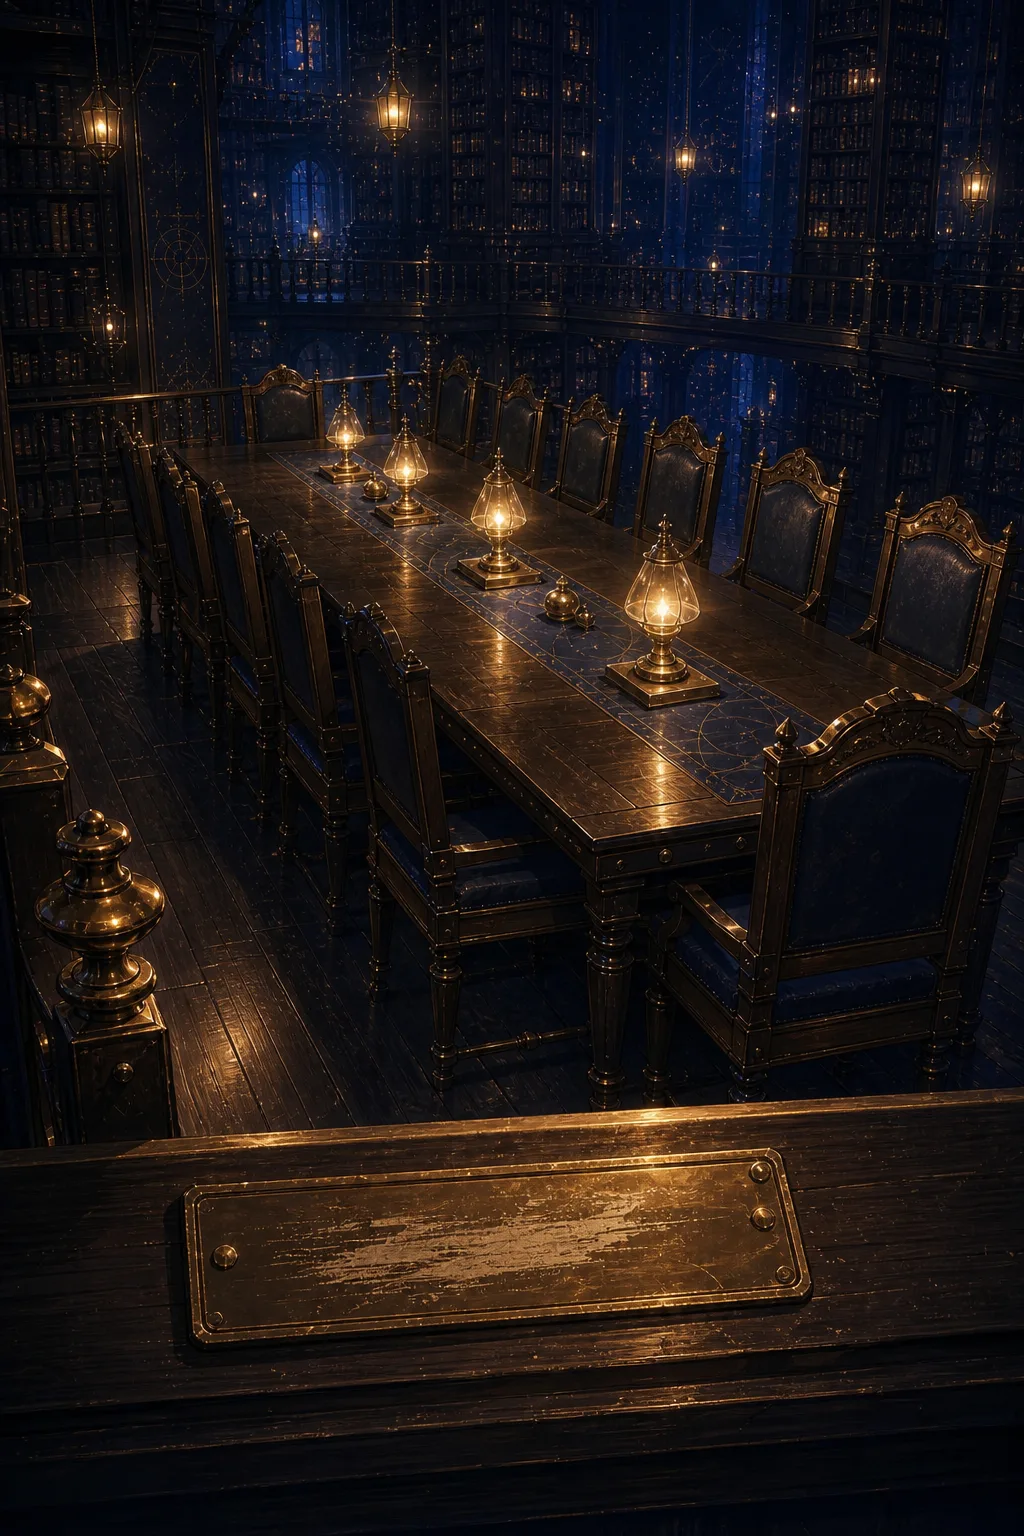
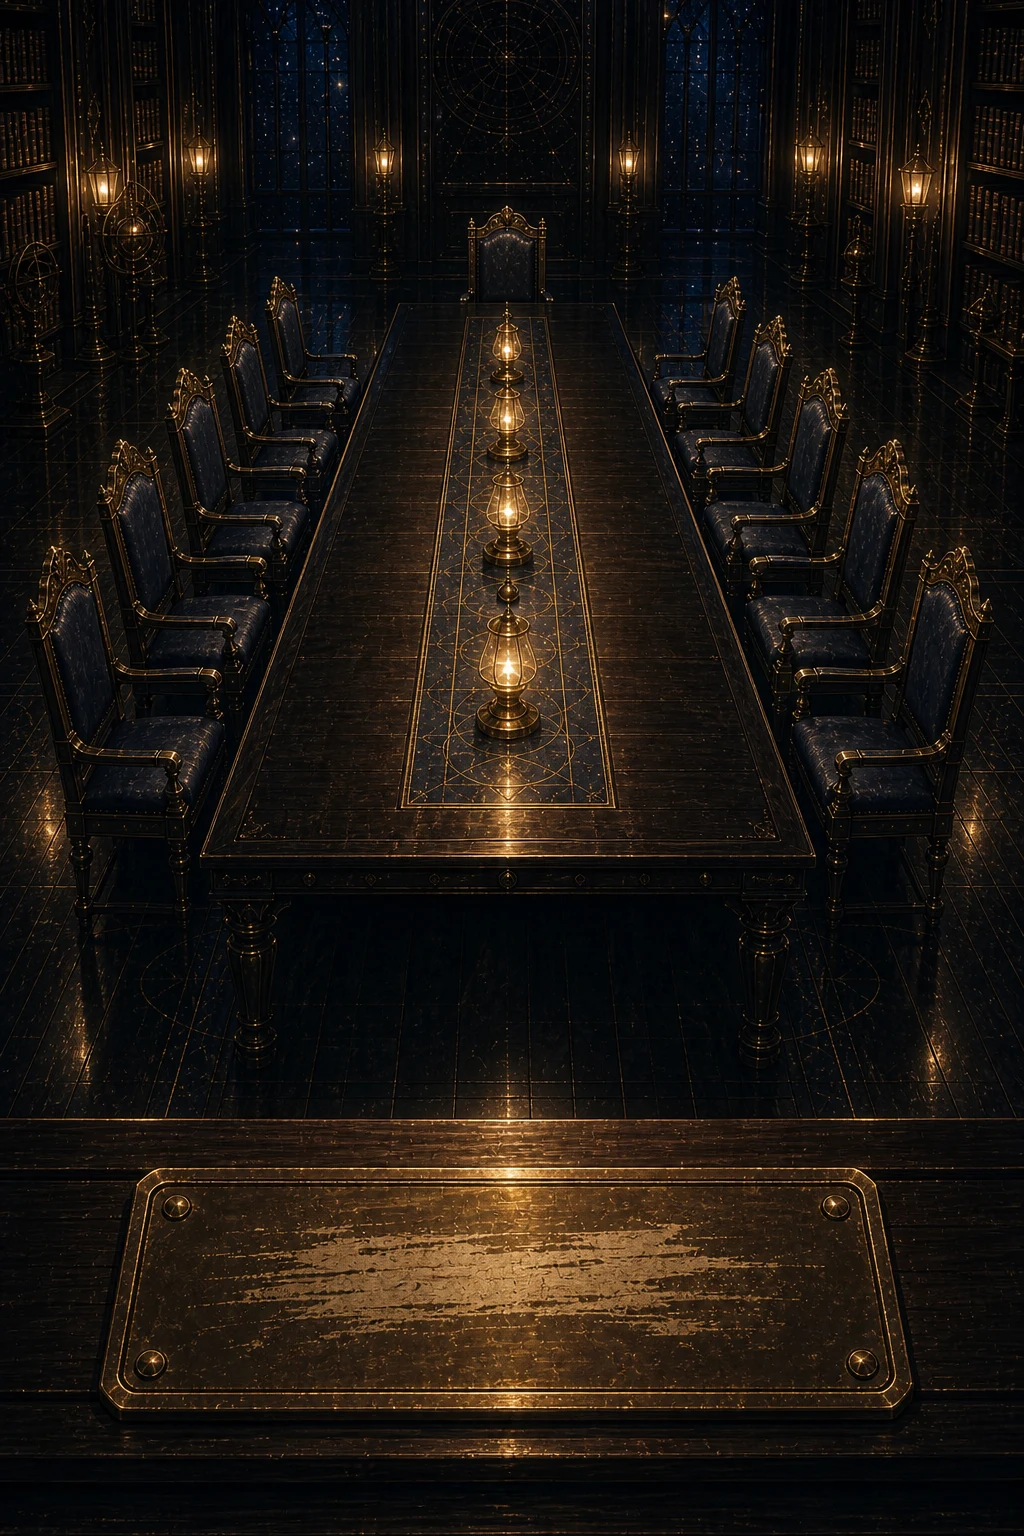
feat: 終幕イベント絵と残響テキストを調整

diff --git a/src/styles/global.css b/src/styles/global.css
@@ -1759,18 +1759,6 @@ a {
   object-position: right center;
   filter: drop-shadow(0 0 14px rgba(255, 231, 186, 0.22)) drop-shadow(0 10px 18px rgba(0, 0, 0, 0.52));
 }
-.th-completion-record__thanks {
-  position: relative;
-  z-index: 1;
-  margin: 1rem 0 0;
-  padding: 0.95rem 1rem 1.05rem;
-  color: var(--color-th-ivory);
-  font-size: 0.9rem;
-  line-height: 1.8;
-  text-align: center;
-  background: rgba(10, 9, 16, 0.46);
-  border-top: 1px solid rgba(184, 147, 79, 0.3);
-}
 .th-atmosphere-image {
   position: relative;
   overflow: hidden;

diff --git a/src/lib/scripts.continuity.test.ts b/src/lib/scripts.continuity.test.ts
@@ -82,8 +82,12 @@ describe("main story continuity", () => {
     expect(act3_04).not.toContain("最後の住人に会う → act4-01");
     expect(act4_01).not.toMatch(/\[登場: (ヒュー|オウ)/u);
     expect(act4_01).toContain("言葉になりきる前で止まる");
+    expect(act4_01).toContain("知ることは、体のどこかが少し変わって、はじめてボクのものになる");
     expect(act4_04).toContain("ヒューの余韻");
     expect(act4_04).not.toContain("ヒューの沈黙");
+    expect(act4_04).toContain("[イベント絵: story/act4/theo-returning-event-horizon.webp, 背面=hide]");
+    expect(act4_04).toContain("現実がどこかにあるなら、きっとそこは、答えのある場所じゃない");
+    expect(act4_04).toContain("さあ、行こう。まだ見えない明日へ--");
   });
 
   it("keeps philosophy explanations away from common distortions", () => {

diff --git a/content/scripts/main/act4-04.md b/content/scripts/main/act4-04.md
@@ -84,6 +84,31 @@ title: "卒業 〜問いを持ち帰る〜"
 **セオ** (theo/notice, 左):
 うん。持っていく。
 
+[待機: 900]
+
+**ヴィンチア** (vincia/close, 右):
+なら、僕はもう、外からきみを呼ばない。
+
+**ヴィンチア** (vincia/soften, 右):
+行っておいで、セオ。
+
+[イベント絵: story/act4/theo-returning-event-horizon.webp, 背面=hide]
+[待機: 表示完了]
+[待機: 1500]
+
+**セオ** (theo/think, 左):
+暗い。けれど、こわいだけの暗さじゃない。光っているものだけを現実と呼んだら、ボクはまた、見える答えに閉じこもってしまう。見えない中心があるから、星は曲がる。わからない場所があるから、歩く向きが生まれる。
+
+[待機: 900]
+
+**セオ** (theo/soften, 左):
+みんなの言葉も、ヴィンチアの言葉も、この物語の言葉も、ぜんぶ持っていく。信じるためじゃない。疑って、残ったものを、もう一度ボクの問いにするために。現実がどこかにあるなら、きっとそこは、答えのある場所じゃない。問いを持ったまま、生きていく場所なんだ。
+
+[待機: 900]
+
+**セオ** (theo/soften, 左):
+さあ、行こう。まだ見えない明日へ--
+
 [選択]
-- 図書館へ戻る → hub
+- 問いを持って進む → hub
 [/選択]

diff --git a/content/scripts/main/act4-01.md b/content/scripts/main/act4-01.md
@@ -49,6 +49,9 @@ title: "最後の住人 〜泥の小物〜"
 **セオ** (theo/firm, 左):
 オウは、もう背中で答えてる。知っているなら、動けって。
 
+**セオ** (theo/think, 左):
+わかった気持ちは、足を動かすまで、まだ本当の形になっていない。大きな決意じゃなくていい。立つ、手を伸ばす、扉のほうを見る。知ることは、体のどこかが少し変わって、はじめてボクのものになるんだ。
+
 [イベント絵終了]
 [待機: 表示完了]
 
@@ -74,14 +77,17 @@ title: "最後の住人 〜泥の小物〜"
 **マキヤ** (makiya/notice, 右):
 きれいな言葉で済ますな。寂しいなら、寂しいまま手を出せ。
 
-[イベント絵終了]
-[待機: 表示完了]
-
 **セオ** (theo/think, 左):
 何を。
 
 **マキヤ** (makiya/explain, 右):
 きれいな答えじゃないものだ。腹が減る。足が痛む。欲をかく。損得で迷う。手についた泥が落ちない。そういう、しつこい具体物だ。
+
+**セオ** (theo/notice, 左):
+この小さなもの、汚れてる。けれど、汚れているから、誰かが持っていたってわかる。完全な答えみたいに、どこから見ても同じじゃない。触った跡がある。
+
+[イベント絵終了]
+[待機: 表示完了]
 
 **セオ** (theo/notice, 左):
 だから、マキヤは最後まで残ったの。

diff --git a/content/scripts/main/act3-01.md b/content/scripts/main/act3-01.md
@@ -56,6 +56,9 @@ title: "連鎖 〜消える規則〜"
 **セオ** (theo/sad, 左):
 ヘグルの声は、まだ上へ行こうとしてる。笑う前に、息をのむみたいに。
 
+**セオ** (theo/think, 左):
+消えたのに、止まってない。ヘグルは、答えに着いたから消えたんじゃない。対立を抱えたまま、次の段へ行こうとしてるんだ。残っているのは結論じゃなくて、上がろうとする力そのものなんだ。
+
 [イベント絵終了]
 [待機: 表示完了]
 
@@ -67,6 +70,9 @@ title: "連鎖 〜消える規則〜"
 
 **セオ** (theo/notice, 左):
 カンティアの線は、まだ残ってる。見えすぎないように閉じていたものまで、いまは図書館に測られてる。
+
+**セオ** (theo/think, 左):
+知らないことを、ただ放っておけと言っていたんじゃない。知るためには、ここから先は知れない、という線も必要だったんだ。境界は壁じゃなくて、世界を壊さずに見るための縁だった。
 
 [イベント絵終了]
 [待機: 表示完了]

diff --git a/docs/04_twists/hook_ledger.md b/docs/04_twists/hook_ledger.md
@@ -113,7 +113,7 @@
 | `act4-01` | イベント絵 + 残響イベント絵 | 3 | 最後の住人/マキヤの具体物、ヒュー/オウの残響 | 孤独を見届ける欲 | F10/F14/F21/F22 | 派手に泣かせず、手触りのある別れ。ヒュー/オウは短い残響、マキヤを主CGにする |
 | `act4-02` | 崩壊背景/特殊背景 | 1 | 答えの本と宇宙設計図 | 完全な答えへの誘惑 | M4/F9/F11 | 眩しさで誘惑を作る。人生訓の絵にしない |
 | `act4-03` | イベント絵 | 1 | 答えを前にした選択 | 欠けを埋めたい欲、選択の緊張 | M1/M4/F9/F11 | 最終サビ。11人目探しの欲を「どう生きるの」の欠落へ反転 |
-| `act4-04` | 通常背景差分/後奏絵 | 1 | 本を閉じる/ヴィンチアが内側へ還る | 余韻 | M5/M6/M8/F8/F12/N6 | 壮大にしない。小さく軽く閉じる |
+| `act4-04` | 通常背景差分 + 最終イベント絵 | 2 | 本を閉じる/ヴィンチアが内側へ還る/セオが問いを持って現実側への道へ返る | 余韻 | M5/M6/M8/F8/F12/N6 | 壮大な大団円にしない。暗い道を出口に見せ、単純帰還ではなく再投射の余韻で閉じる |
 
 ### 幕ごとの枚数バランス
 
@@ -190,7 +190,7 @@
 | `act4-01` | 6分 | 孤独を見届ける欲 | 住人が減り、せおが一人に近づく | 答えの本の危険 | 最後まで誰かが助けてくれるかもしれない | ヒュー/オウは短い残響CG、マキヤは泥の具体物CG。空白だけでなく、最後の問いが内在化する瞬間を見せる |
 | `act4-02` | 6分 | 完全な答えへの誘惑 | 答えの本に近づいた | 「なぜ」が欠けること | これで救われる | 背景そのものを報酬化。宇宙設計図の特殊背景で誘惑を見せる |
 | `act4-03` | 7分 | 選択の緊張、欠けを埋めたい欲 | 完全な説明がある | それを拒否する意味 | 11人目を見つければ閉じられる | 最終イベント絵。答えの眩しさと空白を同時に見せる |
-| `act4-04` | 4分 | 余韻、問いを持ち帰る満足 | 答えでは終わらない | ヴィンチアがどう残るか | 大団円ではないが寂しすぎない | 後奏背景。派手な絵でなく、せおの内側へ還る静けさ |
+| `act4-04` | 4分 | 余韻、問いを持ち帰る満足 | 答えでは終わらない | ヴィンチアがどう残るか | 大団円ではないが寂しすぎない | 後奏背景から最終イベント絵へ。ヴィンチアが外側から退き、セオだけが暗い現実側への道へ返っていく |
 
 ### 絵の使い分け
 

diff --git a/content/scripts/main/act3-02.md b/content/scripts/main/act3-02.md
@@ -31,6 +31,9 @@ title: "証拠 〜古い名簿〜"
 **アリスト** (aristo/notice, 右):
 分類できない。……いや、分類してはいけないのか。そんな棚を、私は知らない。
 
+**セオ** (theo/think, 左):
+アリストなら、まず分けて、札をつけて、落ち着いて見ただろう。でも今は、分ける手そのものが棚に置かれている。観察する人まで観察されるなら、分類は終わりじゃない。ボクの見方も、誰かに見返される。
+
 **ヴィンチア** (vincia/close, 右):
 そうだね。
 

diff --git a/content/scripts/main/act3-04.md b/content/scripts/main/act3-04.md
@@ -36,6 +36,9 @@ title: "反転 〜消失の意味〜"
 **セオ** (theo/think, 左):
 疑いって、消すためじゃなかったんだ。残ったものを、ちゃんと見るためだったんだ。
 
+**セオ** (theo/firm, 左):
+デカリスが消えたあとでも、疑いは残ってる。けれどそれは、誰かを責める声じゃない。ボクが安心したいだけの答えを、もう一度ほどくための手だ。ほどいて、それでも切れないものだけを、持っていけばいい。
+
 [イベント絵終了]
 [待機: 表示完了]
 

diff --git a/docs/03_story/four_act_structure.md b/docs/03_story/four_act_structure.md
@@ -47,7 +47,7 @@
 | `act4-01` | 最深部 | 最後の住人も消え、せお単独に。ヴィンチアだけ同行 |
 | `act4-02` | 答えの本 | 完全なる答えの本に到達→開く→宇宙の設計図＝万物の理論（巨大な数式） |
 | `act4-03` | どう生きるの | 数式は全てを説明するが「それを抱えて、ボクはどう生きるのか」がない。「これは答えだ。でも、ボクの次の一歩は書かれていない」 |
-| `act4-04` | 卒業 | 本を閉じる＝答えを最終としない＝考え続けることを選び、存在し続ける。**体を取り戻して元の現実に戻るのではない**（戻るとしても日本の同じ場所でもない）。いつか、この宇宙か別の宇宙で**イデアが投射された影として再び動くとき**、考えるのをやめないタフな人間になっていれば簡単には洗脳されない——それが卒業。Theo→Theoria。『この物語で語られたことを、まず疑え』。**壮大に締めない＝ハッピーエンドくらいの短さ・小ささに落とす**（宇宙規模の形而上を、最後は小さく軽く着地）。盲目回収＝夢で初めて世界を見る（形も色もすべてが初めて。色だけを強調しない） |
+| `act4-04` | 卒業 | 本を閉じる＝答えを最終としない＝考え続けることを選び、存在し続ける。**体を取り戻して元の現実に戻るのではない**（戻るとしても日本の同じ場所でもない）。いつか、この宇宙か別の宇宙で**イデアが投射された影として再び動くとき**、考えるのをやめないタフな人間になっていれば簡単には洗脳されない——それが卒業。Theo→Theoria。『この物語で語られたことを、まず疑え』。最後はヴィンチアが外側の案内人として退き、ブラックホール図書館を意識した最終イベント絵でセオだけが現実側への暗い道へ返る。単純帰還ではなく再投射の余韻。イベント絵を表示したまま、セオのモノローグ2ページで閉じる。**壮大に締めない＝ハッピーエンドくらいの短さ・小ささに落とす**（宇宙規模の形而上を、最後は小さく軽く着地）。盲目回収＝夢で初めて世界を見る（形も色もすべてが初めて。色だけを強調しない） |
 
 **合計: 本筋 16md ＋ おはこ 8md = 24md。**
 

diff --git a/docs/04_twists/skirts_colour_method.md b/docs/04_twists/skirts_colour_method.md
@@ -44,7 +44,7 @@ Theo-hayami では、これを次の順に使う。
 | `act4-01` | 最後の住人が助けてくれる | 最後の住人も消え、具体物だけが残る | マキヤ、具体物 | 孤独 | 世俗的なものがなぜ最後まで残るのか | 泥っぽい具体物、手触り | F14を回収 |
 | `act4-02` | 完全な答えで救われる | 完全だからこそ問いが死ぬ誘惑にする | 答えの本 | 誘惑 | 完全な説明に何が足りないのか | 眩しい数式、題のない本の反転 | F11を回収準備 |
 | `act4-03` | 11人目/答えを見つければ閉じられる | 欠けを埋める誘惑そのものを拒否する | せお自身 | 選択の緊張 | 「どう生きるの」を失った答えは答えか | 視界の欠け、「どう生きるの」の欠落 | M1/M4/F9/F11を回収 |
-| `act4-04` | 壮大に帰還する | 小さく閉じ、問いを持ち帰る | 物語全体 | 余韻 | ヴィンチアはどこへ残ったのか | せおの口癖、現実断片 | M5/M6/M8/F8/F12を回収 |
+| `act4-04` | 壮大に帰還する | 小さく閉じ、問いを持ち帰る。最後はブラックホール図書館を意識したイベント絵で、セオが現実側への暗い道へ返る | 物語全体 | 余韻 | ヴィンチアはどこへ残ったのか | せおの口癖、現実断片、事象の地平面 | M5/M6/M8/F8/F12を回収 |
 
 ## 後付け伏線レビュー表（第一幕 実レビュー）
 